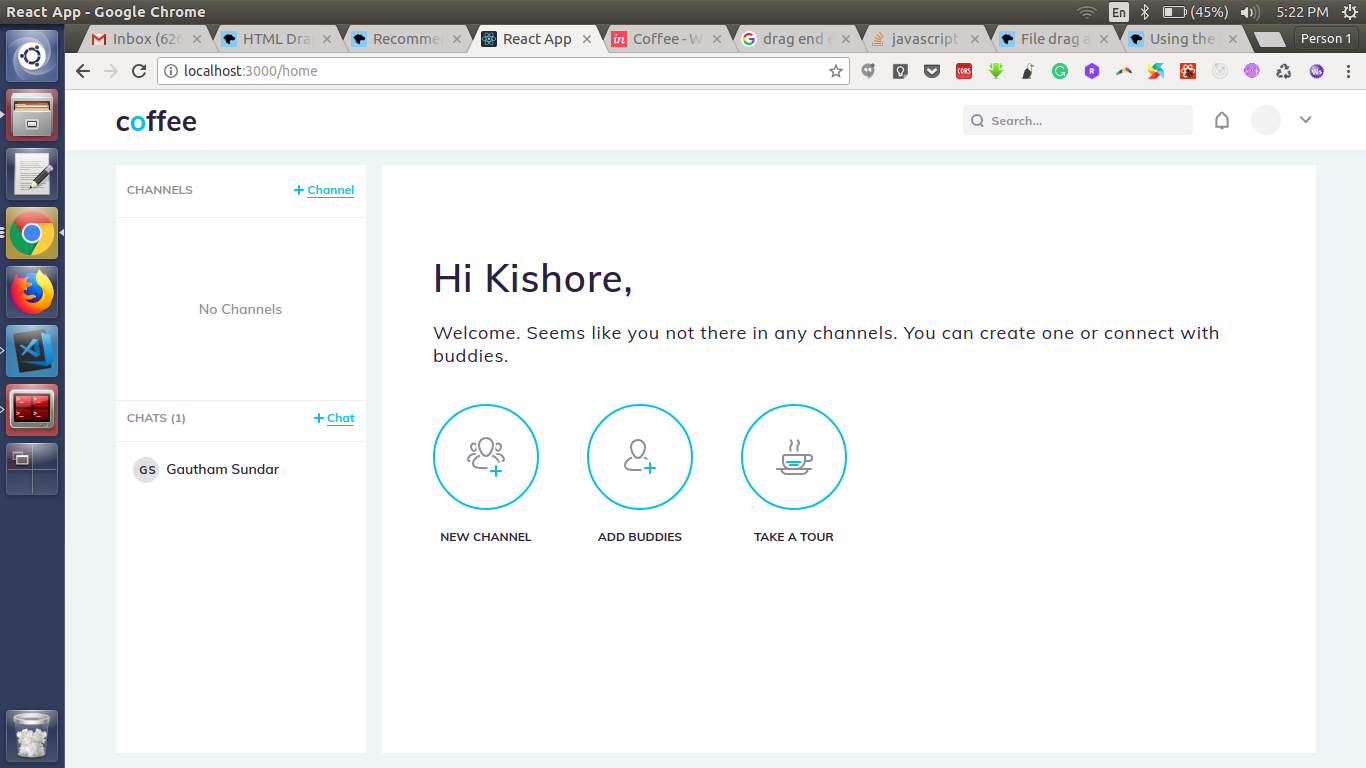
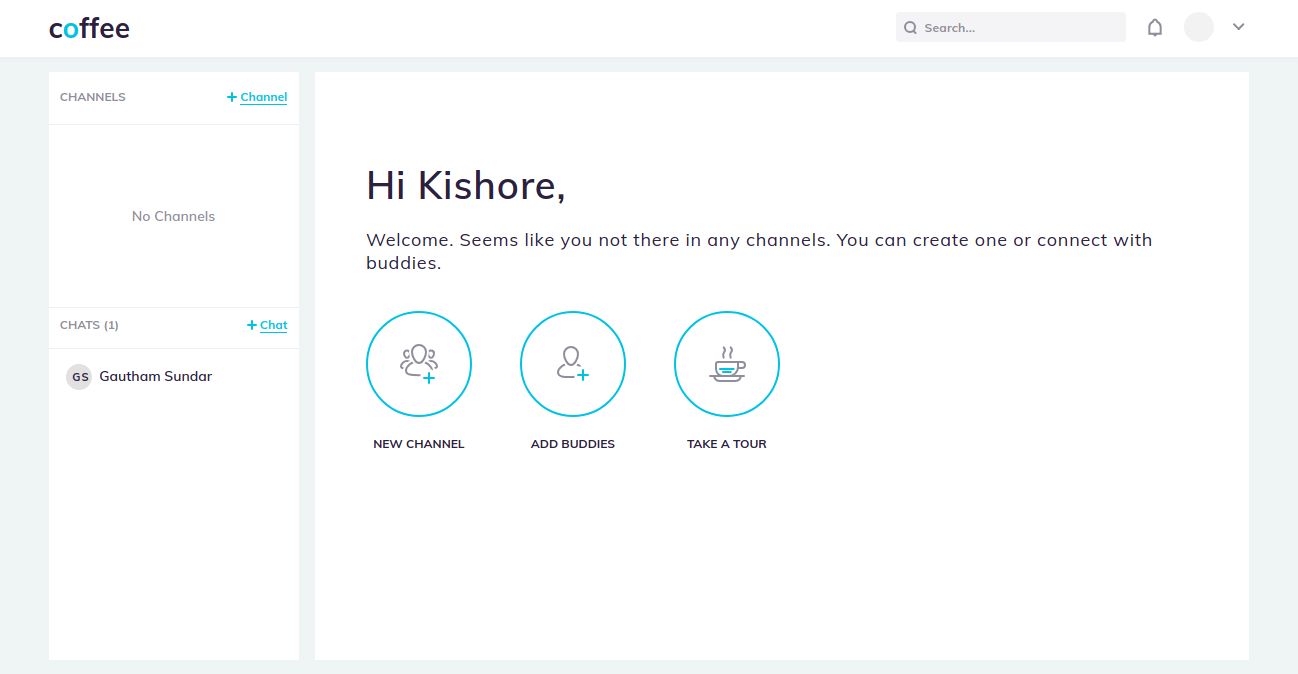
Completed all projects thumbnail and cover images

diff --git a/index.html b/index.html
@@ -265,7 +265,7 @@
         <div class="col-sm-12">
           <div class="mb-5 text-center">
             <h2 data-animate="fadeInUp" class="title">My work</h2>
-            <p data-animate="fadeInUp" class="lead">I have worked on dozens of projects so I have picked only the latest for you.</p>
+            <p data-animate="fadeInUp" class="lead">I have worked on few amazing projects which I picked up for you.</p>
           </div>
           <!-- <ul id="filter" data-animate="fadeInUp">
             <li class="active"><a href="#" data-filter="all">All</a></li>
@@ -289,14 +289,17 @@
           <div id="references-masonry" data-animate="fadeInUp">
             <div class="row">
                   <div data-category="webdesign" class="reference-item col-lg-3 col-md-6">
-                    <div class="reference"><a href="#"><img src="img/portfolio-1.jpg" alt="" class="img-fluid">
+                    <div class="reference"><a href="#"><img src="img/projects/Coffee/Coffee_ThumbNail.png" alt="" class="img-fluid">
                         <div class="overlay">
                           <div class="inner">
                             <h3 class="h4 reference-title">Coffee </h3>
-                            <p>Talk Business while you Brew!</p>
+                            <p>Talk Business while you brew!</p>
                           </div>
                         </div></a>
-                      <div data-images="img/main-slider1.jpg,img/main-slider2.jpg,img/main-slider3.jpg" class="sr-only reference-description">
+                      <div data-images="img/projects/Coffee/Coffee_Home.png,
+                      img/projects/Coffee/Coffee_SignIn.png,
+                      img/projects/Coffee/Coffee_createChannel.png,
+                      img/projects/Coffee/Coffee_RightSidePanel.png" class="sr-only reference-description">
                         <p>Coffee is a collaboration platform which we can be used in enterprise to discuss, share and get insights from the projects. It was created using ReactJS and redux in the front-end and was powered by erlang server.</p>
                         <p>It's seamless UI flow and unparalled concurrency nature of erlang makes the data transmission quicker than a speed of a sound. Server side rendering is done using Universal Javascript technique.</p>
                         <p class="buttons text-center"><a href="javascript:void(0);" class="btn btn-outline-primary"><i class="fa fa-globe"></i> Visit website</a>
@@ -313,7 +316,11 @@
                             <p>Take your predictions to the Next level!</p>
                           </div>
                         </div></a>
-                      <div data-images="img/projects/Augury/Augury_home_bid.png" class="sr-only reference-description">
+                      <div data-images="img/projects/Augury/Augury_home_bid.png,
+                      img/projects/Augury/Augury_leaderboard.png,
+                      img/projects/Augury/Augury_statistics.png,
+                      img/projects/Augury/Augury_Won.png,
+                      img/projects/Augury/Augury_Winner.png" class="sr-only reference-description">
                         <p>Augury is an inhouse fun game product created specifically of Indian Premier League. The product is basically about predicting the winning team to gain points in order to progress in your leaderboard.</p>
                         <p>Augury was built using ReactJS, Redux for front end developement and golang for server side developement. MySQL is used as data storage layer.</p>
                         <p class="buttons text-center"><a href="javascript:void(0);" class="btn btn-outline-primary"><i class="fa fa-globe"></i> Visit website</a>
@@ -327,7 +334,7 @@
                         <div class="overlay">
                           <div class="inner">
                             <h3 class="h4 reference-title">Gabby</h3>
-                            <p>Ask anything to our Conversational Agent</p>
+                            <p>Gabby speaks business!</p>
                           </div>
                         </div></a>
                       <div data-images="img/main-slider1.jpg,img/main-slider2.jpg,img/main-slider3.jpg" class="sr-only reference-description">
@@ -344,7 +351,7 @@
                         <div class="overlay">
                           <div class="inner">
                             <h3 class="h4 reference-title">Nexleaf</h3>
-                            <p>For Responsive Interventions</p>
+                            <p>For Responsive Social Interventions</p>
                           </div>
                         </div></a>
                       <div data-images="img/projects/NexLeaf/NexLeaf_Mission.png,
